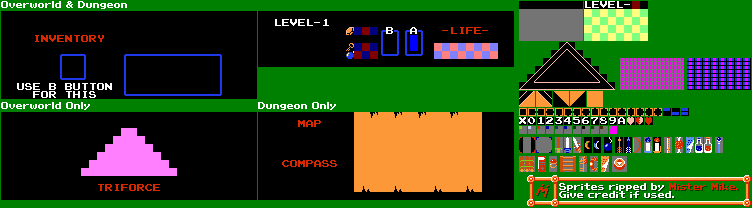
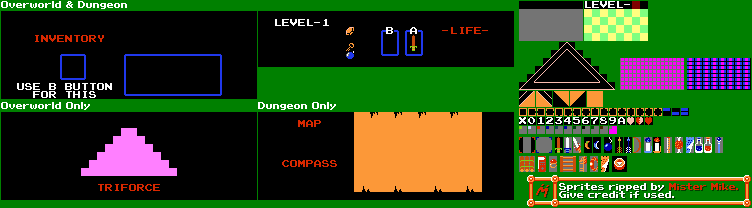
Code clean up

diff --git a/src/HUD/PlayerInfoHUD.cs b/src/HUD/PlayerInfoHUD.cs
@@ -26,10 +26,7 @@ namespace ZeldaGame.HUD
 		private Rectangle playerInfoSR;
         private Rectangle playerInfoDR;
         private Rectangle currentWeaponDR;
-        private Rectangle allBlankSR;
-        private Rectangle rubyBlankDR;
-        private Rectangle keyBlankDR;
-        private Rectangle bombBlankDR;
+
         private int rubyCountInt;
         private string rubyCountString;
         private int keyCountInt;
@@ -64,10 +61,6 @@ namespace ZeldaGame.HUD
 			playerInfoSR = new Rectangle(258, 11, 256, 56);
             playerInfoDR = new Rectangle(0, 0, 0, 0);
             currentWeaponDR = new Rectangle((int)(128 * scale.X), (int)(24 * scale.Y), (int)(8 * scale.X), (int)(16 * scale.Y));
-            allBlankSR = new Rectangle(353, 11, 23, 15);
-            rubyBlankDR = new Rectangle(300, 50, 85, 25);
-            keyBlankDR = new Rectangle(300, 100, 85, 25);
-            bombBlankDR = new Rectangle(300, 125, 85, 25);
 
             itemActionHandler = collisionHandler.itemActionHandler;
             mapHandler = new HUDMapHandler(texture, scale, map, collisionHandler);
@@ -77,7 +70,6 @@ namespace ZeldaGame.HUD
         {
             rubyCountInt = (ItemActionHandler.inventoryCounts[0] * 5) + ItemActionHandler.inventoryCounts[1];
             rubyCountString = "x" + rubyCountInt.ToString();
-            spriteBatch.Draw(texture, rubyBlankDR, allBlankSR, Color.White);
             if(isDisplayed == -1)
                 spriteBatch.DrawString(font, rubyCountString, new Vector2(300, 50), Color.White);
             if(isDisplayed == 1)
@@ -88,7 +80,6 @@ namespace ZeldaGame.HUD
         {
             keyCountInt = ItemActionHandler.inventoryCounts[2];
             keyCountString = "x" + keyCountInt.ToString();
-            spriteBatch.Draw(texture, keyBlankDR, allBlankSR, Color.White);
             if(isDisplayed == -1)
                 spriteBatch.DrawString(font, keyCountString, new Vector2(300, 100), Color.White);
             if(isDisplayed == 1)
@@ -99,7 +90,6 @@ namespace ZeldaGame.HUD
         {
             bombCountInt = ItemActionHandler.inventoryCounts[8];
             bombCountString = "x" + bombCountInt.ToString();
-            spriteBatch.Draw(texture, bombBlankDR, allBlankSR, Color.White);
             if(isDisplayed == -1)
                 spriteBatch.DrawString(font, bombCountString, new Vector2(300, 125), Color.White);
             if(isDisplayed == 1)
@@ -115,8 +105,6 @@ namespace ZeldaGame.HUD
                 spriteBatch.Draw(texture, playerInfoDR, playerInfoSR, Color.White);
                 mapHandler.Draw(spriteBatch, isDisplayed);
                 spriteBatch.Draw(texture, currentWeaponDR, headUpDisplay.HUDInventory.currentWeapon(), Color.White);
-                spriteBatch.Draw(texture, keyBlankDR, allBlankSR, Color.White);
-                spriteBatch.Draw(texture, bombBlankDR, allBlankSR, Color.White);
             }
 
             rubyCountInt = (ItemActionHandler.inventoryCounts[0] * 5) + ItemActionHandler.inventoryCounts[1];
